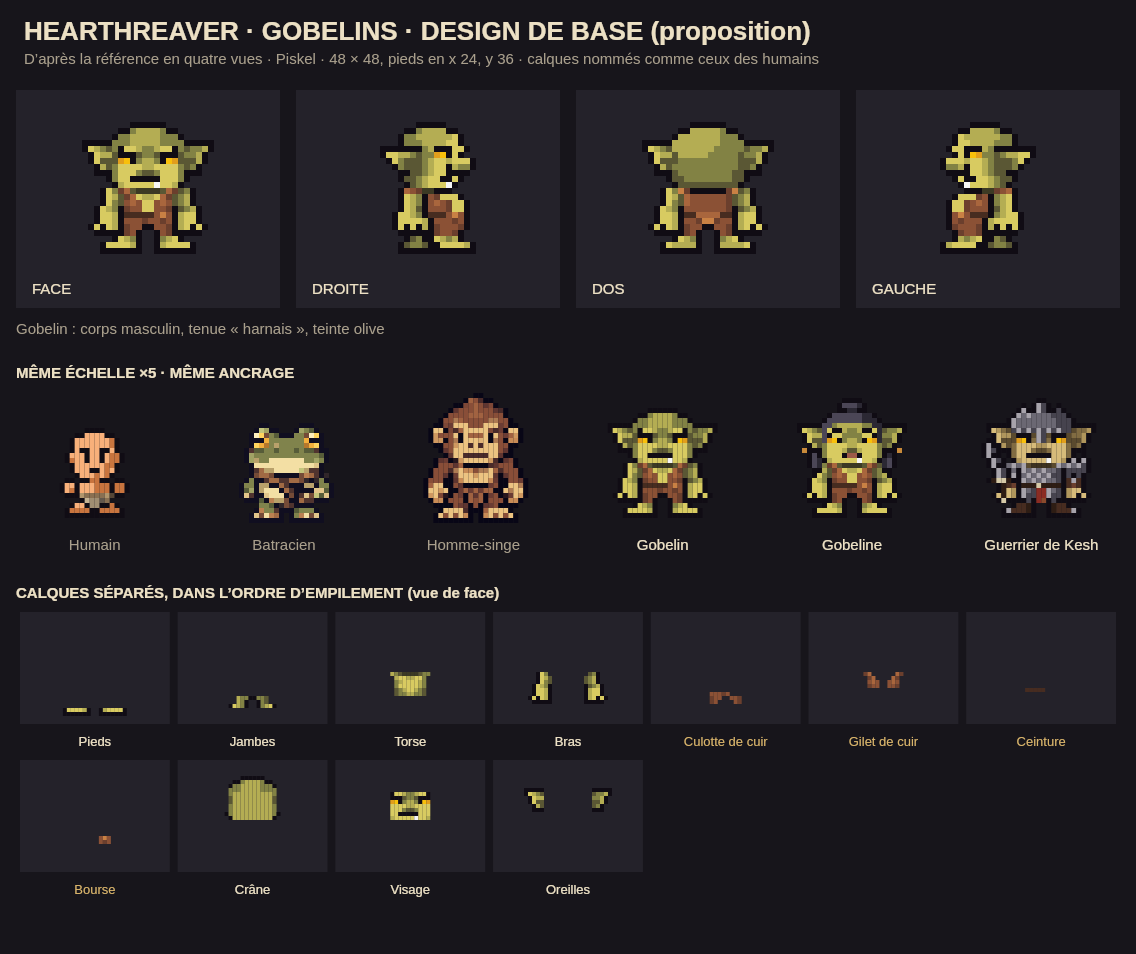
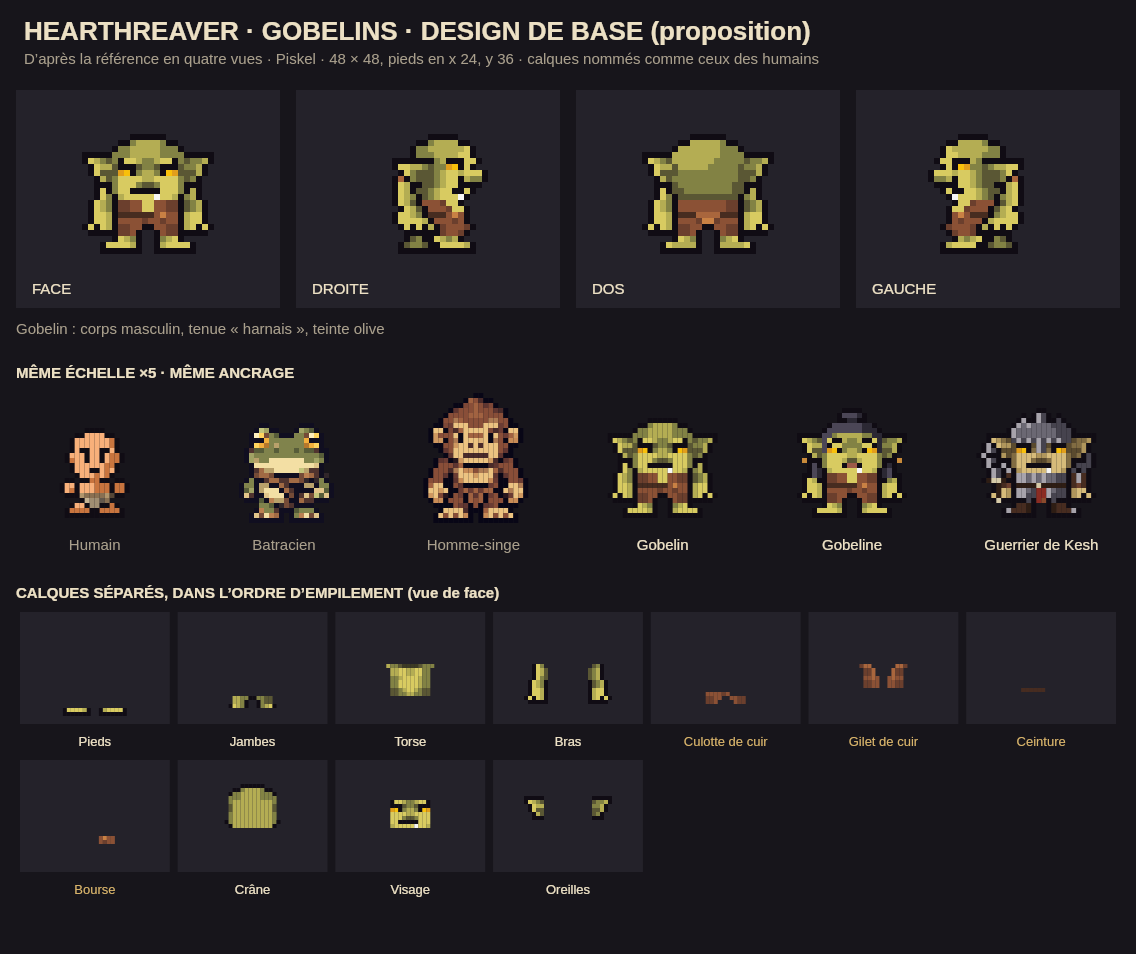
Gobelins voûtés façon Seigneur des anneaux
Les dessins restent faits debout ; une posture les plie ensuite de la même
façon pour le corps, les tenues, les coiffes et les armes. De face et de dos,
la tête descend de deux rangées entre des épaules plus hautes et plus larges,
et les bras s'allongent. De profil, la tête avance, le haut du dos fait bosse
et les genoux fléchissent. Le gobelin mesure 20 pixels au lieu de 22.

Claude-Session: https://claude.ai/code/session_018EeQxkf77jYwD1D6zZppH4

diff --git a/art/gobelins/LISEZMOI.md b/art/gobelins/LISEZMOI.md
@@ -11,7 +11,8 @@ Proposition de design, à valider, d'après la référence en quatre vues de Lin
 - Cadre de 48 × 48, pieds à l'ancre x 24, y 36, comme les hommes-singes et les batraciens. Le moteur ajoute 16 sur les deux axes, ce qui donne le cadre 80 × 80 des humains, avec l'ancre en 40, 52.
 - Quatre cadres par fichier, dans l'ordre des humains : face, droite, dos, gauche.
 - Contour d'encre `#100c14`, alpha binaire.
-- Un gobelin fait 22 pixels de haut, des pieds au haut du crâne, dont 11 pour la tête : c'est la proportion de la référence. Son corps est plus court que celui d'un humain, mais sa tête le rend un peu plus haut, et ses oreilles le rendent beaucoup plus large (22 pixels).
+- Un gobelin se tient voûté, comme ceux du Seigneur des anneaux : tête basse enfoncée entre des épaules hautes, bras longs, et de profil tête projetée en avant, dos bombé, genoux fléchis. Il fait ainsi 20 pixels de haut, des pieds au haut du crâne (22 debout, dont 11 pour la tête). Ses oreilles le rendent beaucoup plus large qu'un humain (22 pixels).
+- Les dessins de `scripts/gobelins/dessins.cjs` sont faits debout, puis pliés dans la posture voûtée de la même façon pour le corps et pour tout ce qui se pose dessus : une tenue, une coiffe ou une arme dessinée debout reste donc ajustée.
 
 ## Fichiers
 
